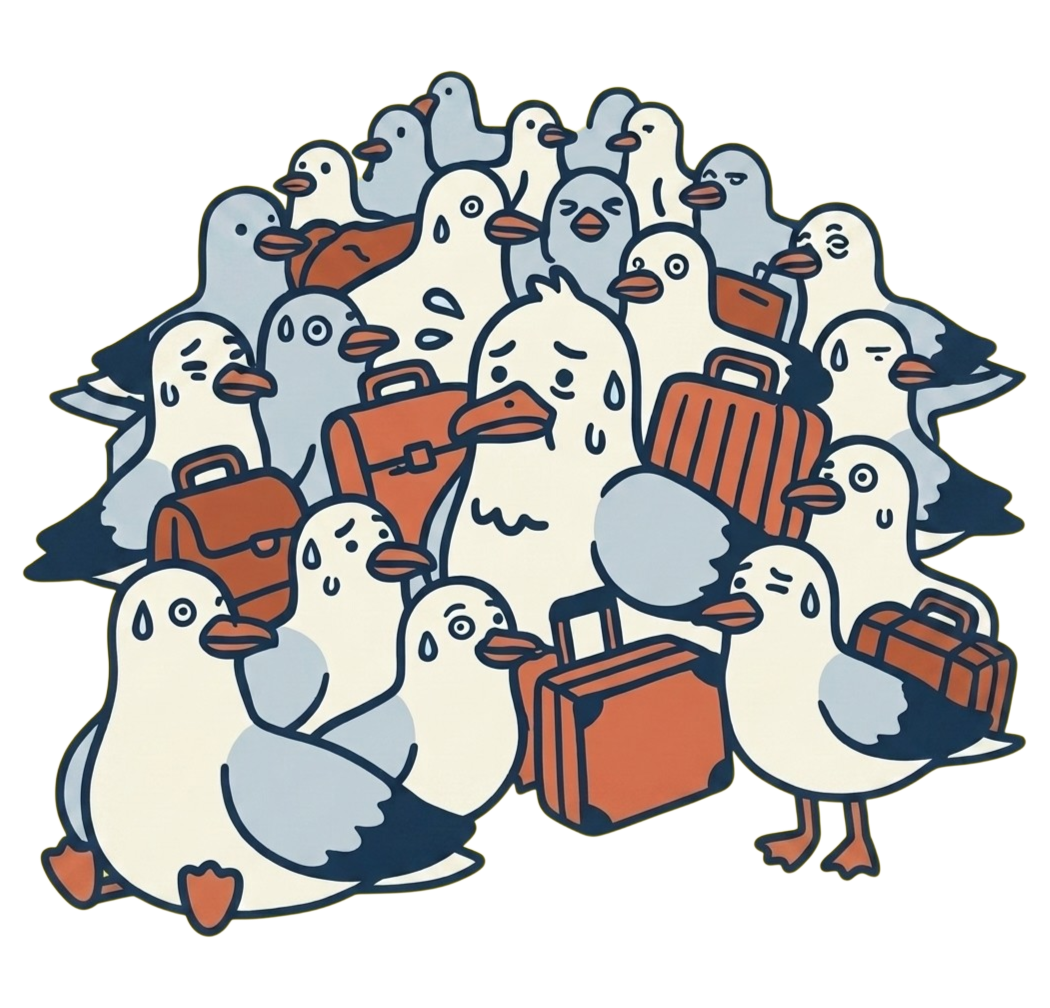
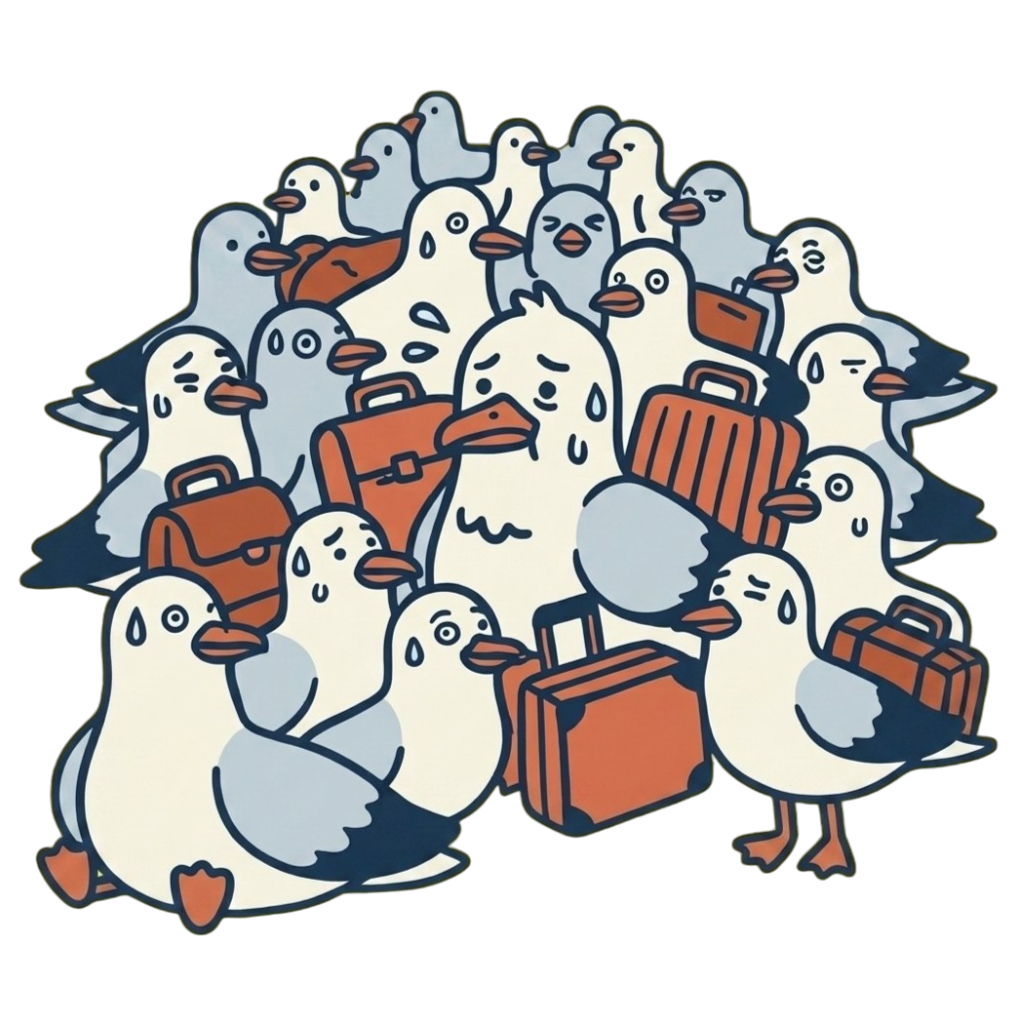
feat(congestion): 집계중(레벨 0) 상태 지원 및 접전지 카드 스탬프 적용

Changed region(s): [[0.0, 0.0615, 1.0, 0.9534], [0.1875, 0.7381, 0.2188, 0.7996], [0.75, 0.6766, 0.7812, 0.7073]]

diff --git a/frontend/src/pages/DetailPage.tsx b/frontend/src/pages/DetailPage.tsx
@@ -25,10 +25,11 @@ const DAY_NAMES = ['일', '월', '화', '수', '목', '금', '토'];
 const WEEKENDS = new Set(['토', '일']);
 
 const LEVEL_LABELS_SHORT: Record<CongestionLevel, string> = {
-  1: '눈치성공', 2: '여유', 3: '보통', 4: '혼잡', 5: '눈치실패',
+  0: '집계중', 1: '눈치성공', 2: '여유', 3: '보통', 4: '혼잡', 5: '눈치실패',
 };
 
 const LEVEL_TIP: Record<CongestionLevel, string> = {
+  0: '아직 데이터를 모으고 있어요. 조금만 기다려주세요!',
   1: '지금은 거의 대기 없어요. 편하게 다녀오세요!',
   2: '가볍게 다녀오기 좋은 날이에요.',
   3: '평소만큼 붐벼요. 무리 없는 수준!',
@@ -390,9 +391,11 @@ export default function DetailPage() {
                   alt={getLevelLabel(level)}
                   className={styles.levelStampImg}
                 />
-                <span className={styles.levelStampScore} style={{ color: getLevelColor(level) }}>
-                  {spot.todayCongestion.score}%
-                </span>
+                {level > 0 && (
+                  <span className={styles.levelStampScore} style={{ color: getLevelColor(level) }}>
+                    {spot.todayCongestion.score}%
+                  </span>
+                )}
               </div>
             </div>
 

diff --git a/frontend/src/utils/congestion.ts b/frontend/src/utils/congestion.ts
@@ -1,6 +1,9 @@
 import type { CongestionLevel } from '../types';
 
-export function getCongestionLevel(rate: number): CongestionLevel {
+// ponytail: 백엔드가 아직 "데이터 없음"을 null 대신 0으로 내려주고 있어 0을 집계중으로 취급한다.
+// 백엔드가 null을 내려주도록 고쳐지면 `rate === 0` 분기는 지우고 null 체크만 남길 것.
+export function getCongestionLevel(rate: number | null): CongestionLevel {
+  if (rate === null || rate === 0) return 0;
   if (rate <= 20) return 1;
   if (rate <= 40) return 2;
   if (rate <= 60) return 3;
@@ -14,6 +17,7 @@ export function getLevelImage(level: CongestionLevel): string {
 
 export function getLevelColor(level: CongestionLevel): string {
   const colors: Record<CongestionLevel, string> = {
+    0: '#9aa5b1',
     1: '#3b82d6',
     2: '#2fae7a',
     3: '#f0a92e',
@@ -25,6 +29,7 @@ export function getLevelColor(level: CongestionLevel): string {
 
 export function getLevelLabel(level: CongestionLevel): string {
   const labels: Record<CongestionLevel, string> = {
+    0: '집계중',
     1: '눈치게임 성공!',
     2: '여유',
     3: '보통',

diff --git a/frontend/src/components/HotPlaceCard.tsx b/frontend/src/components/HotPlaceCard.tsx
@@ -1,6 +1,6 @@
 import { useState } from 'react';
 import { useNavigate } from 'react-router-dom';
-import { getCongestionLevel, getLevelColor } from '../utils/congestion';
+import { getCongestionLevel, getLevelColor, getLevelImage, getLevelLabel } from '../utils/congestion';
 import { getSpotGradient } from '../utils/spotGradient';
 import IconPin from './IconPin';
 import type { BattlePlaceResponse } from '../types/api';
@@ -36,9 +36,11 @@ export default function HotPlaceCard({ place }: Props) {
             {place.rank}위
           </span>
         )}
-        <span className={styles.congestionPill} style={{ background: levelColor }}>
-          {place.congestion.score}%
-        </span>
+        <img
+          src={getLevelImage(level)}
+          alt={getLevelLabel(level)}
+          className={styles.levelStampImg}
+        />
       </div>
       <div className={styles.body}>
         <div>

diff --git a/frontend/src/components/KakaoMap.tsx b/frontend/src/components/KakaoMap.tsx
@@ -5,6 +5,7 @@ import type { DistrictResponse } from '../types/api';
 import type { CongestionLevel } from '../types';
 import LoadingOverlay from './LoadingOverlay';
 import styles from './KakaoMap.module.css';
+import duck00 from '../assets/images/level00__duck.png';
 import duck01 from '../assets/images/level01__duck.png';
 import duck02 from '../assets/images/level02__duck.png';
 import duck03 from '../assets/images/level03__duck.png';
@@ -12,7 +13,7 @@ import duck04 from '../assets/images/level04__duck.png';
 import duck05 from '../assets/images/level05__duck.png';
 
 const DUCK_IMAGES: Record<CongestionLevel, string> = {
-  1: duck01, 2: duck02, 3: duck03, 4: duck04, 5: duck05,
+  0: duck00, 1: duck01, 2: duck02, 3: duck03, 4: duck04, 5: duck05,
 };
 
 interface DistrictFeature {

diff --git a/frontend/src/components/HotPlaceCard.module.css b/frontend/src/components/HotPlaceCard.module.css
@@ -45,16 +45,22 @@
   filter: drop-shadow(0 3px 5px rgba(0, 0, 0, 0.28));
 }
 
-.congestionPill {
+/* 혼잡도 스탬프 — 사진 모서리에 찍힌 것처럼 살짝 기울여 배치 (히어로 스탬프와 동일한 톤) */
+.levelStampImg {
   position: absolute;
-  bottom: 10px;
-  right: 10px;
+  bottom: 6px;
+  right: 8px;
   z-index: 2;
-  padding: 3px 9px;
-  border-radius: 20px;
-  font-size: 12px;
-  font-weight: 800;
-  color: #fff;
+  width: 56px;
+  height: 56px;
+  object-fit: contain;
+  transform: rotate(-6deg);
+  filter: drop-shadow(0 3px 7px rgba(0, 0, 0, 0.3));
+  transition: transform 0.22s;
+}
+
+.card:hover .levelStampImg {
+  transform: rotate(-6deg) scale(1.08);
 }
 
 .body {

diff --git a/frontend/src/types/index.ts b/frontend/src/types/index.ts
@@ -1,4 +1,4 @@
-export type CongestionLevel = 1 | 2 | 3 | 4 | 5;
+export type CongestionLevel = 0 | 1 | 2 | 3 | 4 | 5;
 
 export interface District {
   id: string;
